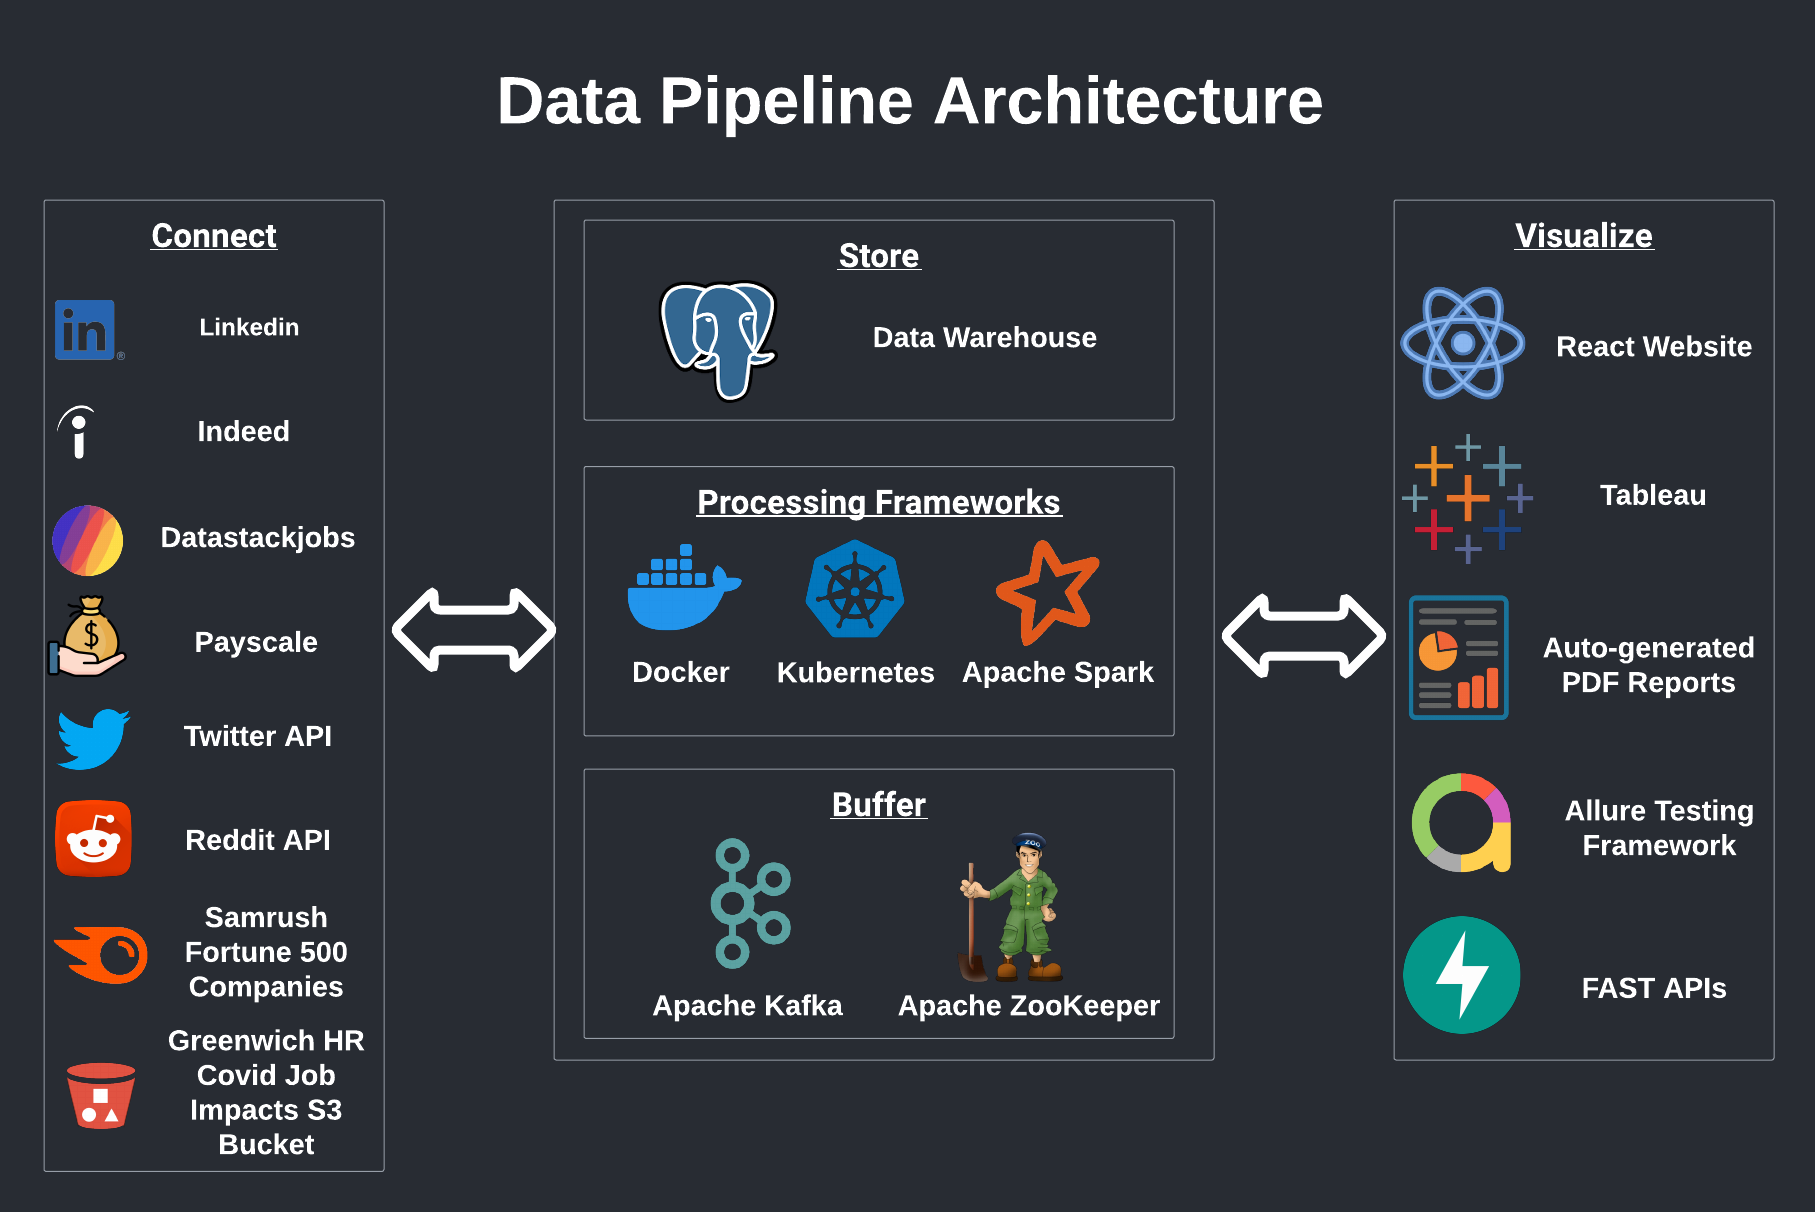
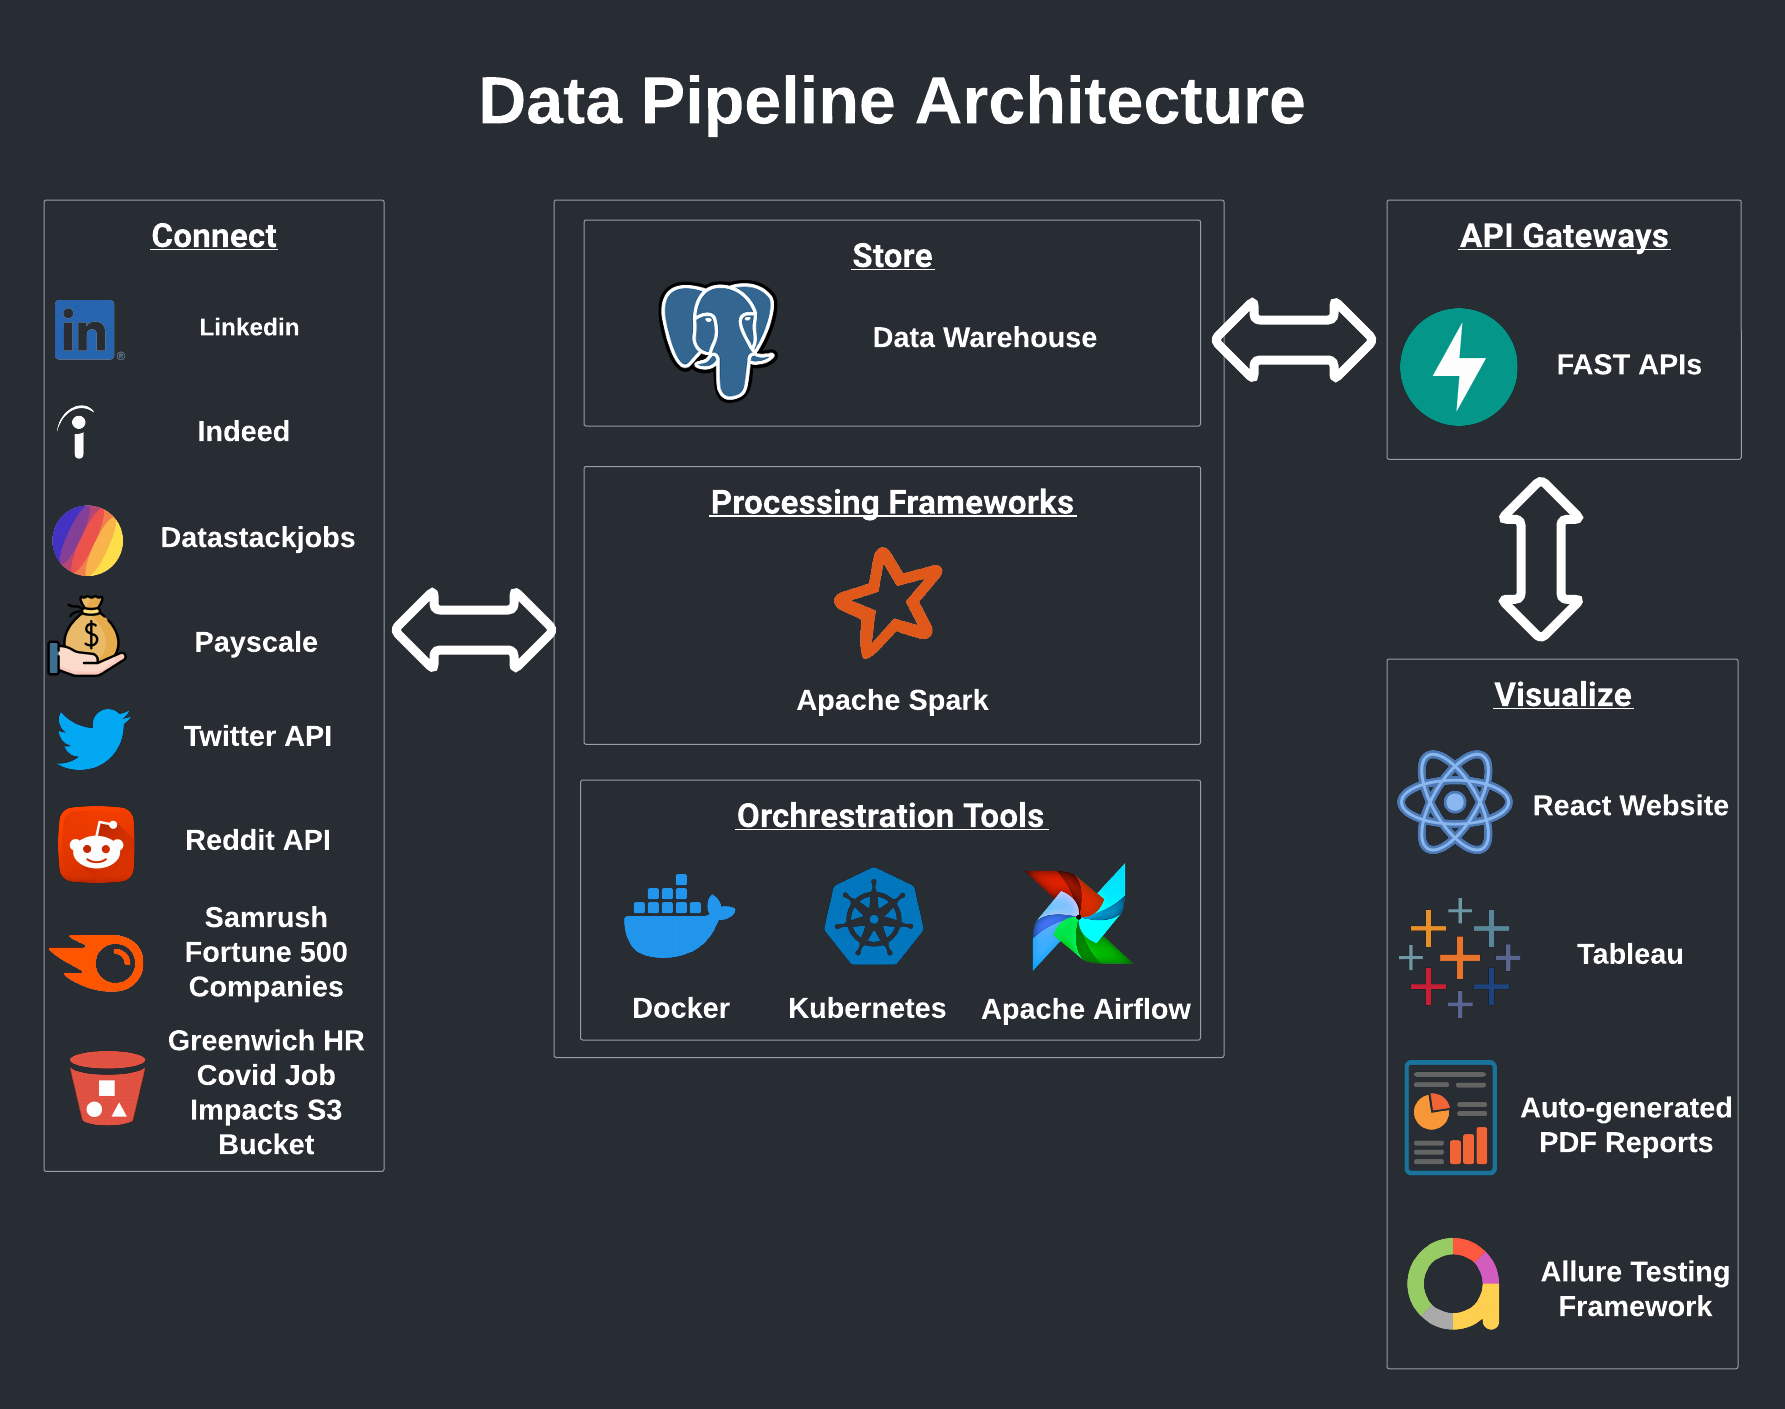
Fix invalid architectures images in readme file
What changes were supposed in this pull request?
1. Delete the old architecture image
2. Replace data pipeline architecture with the new one
3. Fix architecture images urls in readme file

Why are the changes needed?
To make our readme file in our production main branch more readable by providing valid architecture links.

Does this PR introduce any user-facing change?
No.

diff --git a/README.md b/README.md
@@ -57,9 +57,9 @@ We're looking to better understand **what skills, expected market salary for dat
 - Explain the pipelines for processing that you are building
 - Go through your development and add your source code -->
 # ⇔ Data Pipeline Architecture
-![Data Pipeline Architecture](https://github.com/mhmdawnallah/Data-Jobs-Research/blob/feature/diagrams/Data%20Pipeline%20Architecture.png)
+![Data Pipeline Architecture](https://github.com/mhmdawnallah/Data-Jobs-Research/blob/main/diagrams/Data%20Pipeline%20Architecture.png)
 # 🏢 Data Warehouse Schema Design
-![Data Warehouse Schema Design](https://github.com/mhmdawnallah/Data-Jobs-Research/blob/feature/diagrams/Data%20Warehouse%20Schema%20Design.png)
+![Data Warehouse Schema Design](https://github.com/mhmdawnallah/Data-Jobs-Research/blob/main/diagrams/Data%20Warehouse%20Schema%20Design.png)
 
 <!-- ## Connect
 ## Buffer
